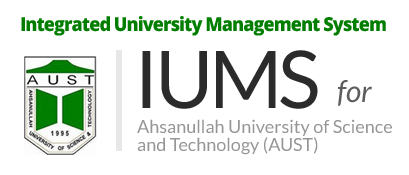
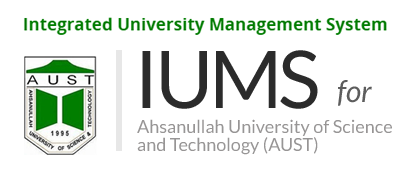
Code formatting and changed brand image.

Changed region(s): [[0.0293, 0.0857, 0.9682, 0.2]]

diff --git a/ums-core/src/main/java/org/ums/persistent/dao/PersistentAdmissionStudentDao.java b/ums-core/src/main/java/org/ums/persistent/dao/PersistentAdmissionStudentDao.java
@@ -45,47 +45,35 @@ public class PersistentAdmissionStudentDao extends AdmissionStudentDaoDecorator 
           + "                 FATHER_NAME, MOTHER_NAME, SSC_GPA, HSC_GPA, QUOTA , unit,      "
           + "                 LAST_MODIFIED from admission_students where SEMESTER_ID=? and program_type=? order by to_number(RECEIPT_ID)";
 
-  String INSERT_ONE_TALETALK_DATA =
-      "INSERT INTO admission_students (semester_id, "
-          + "                                receipt_id, "
-          + "                                pin, "
-          + "                                hsc_board,hsc_roll, "
-          + "                                hsc_regno, "
-          + "                                hsc_year, "
-          + "                                hsc_group, "
-          + "                                ssc_board, "
-          + "                                ssc_roll, "
-          + "                                ssc_year, "
-          + "                                ssc_group, "
-          + "                                gender, "
-          + "                                date_of_birth, "
-          + "                                student_name, "
-          + "                                father_name, "
-          + "                                mother_name, "
-          + "                                ssc_gpa, "
-          + "                                hsc_gpa, "
-          + "                                quota, "
-          + "                                unit, program_type,last_Modified) "
-          + "                                values(?,?,?,?,?,?,?,?,?,?,?,?,?,to_date(?,'dd/MM/YY'),?,?,?,?,?,?,?,?,"
-          + getLastModifiedSql() + ")";
+  String INSERT_ONE_TALETALK_DATA = "INSERT INTO admission_students (semester_id, "
+      + "                                receipt_id, " + "                                pin, "
+      + "                                hsc_board,hsc_roll, " + "                                hsc_regno, "
+      + "                                hsc_year, " + "                                hsc_group, "
+      + "                                ssc_board, " + "                                ssc_roll, "
+      + "                                ssc_year, " + "                                ssc_group, "
+      + "                                gender, " + "                                date_of_birth, "
+      + "                                student_name, " + "                                father_name, "
+      + "                                mother_name, " + "                                ssc_gpa, "
+      + "                                hsc_gpa, " + "                                quota, "
+      + "                                unit, program_type,last_Modified) "
+      + "                                values(?,?,?,?,?,?,?,?,?,?,?,?,?,to_date(?,'dd/MM/YY'),?,?,?,?,?,?,?,?,"
+      + getLastModifiedSql() + ")";
 
   String INSERT_ONE = "INSERT INTO DB_IUMS.ADMISSION_STUDENTS  "
       + "(SEMESTER_ID, RECEIPT_ID, PIN, HSC_BOARD, HSC_ROLL,  "
-      + " HSC_REGNO, HSC_YEAR, HSC_GROUP, SSC_BOARD, SSC_ROLL,  "
-      + "  SSC_YEAR, SSC_GROUP, GENDER, DATE_OF_BIRTH,  "
+      + " HSC_REGNO, HSC_YEAR, HSC_GROUP, SSC_BOARD, SSC_ROLL,  " + "  SSC_YEAR, SSC_GROUP, GENDER, DATE_OF_BIRTH,  "
       + " STUDENT_NAME, FATHER_NAME, MOTHER_NAME, SSC_GPA, HSC_GPA,  "
       + " QUOTA,UNIT, ADMISSION_ROLL, MERIT_SL_NO, STUDENT_ID, ALLOCATED_PROGRAM_ID,  "
-      + " MIGRATION_STATUS, LAST_MODIFIED)  " + "VALUES  " + "  (?, ?, ?, ?, ?,?,  "
-      + "      ?, ?, ?, ?, ?,  " + "      ?, ?, ?, ?, ?,  " + "         ?, ?, ?, ?, ?,  "
-      + "   ?, ?, ?, ?, ?,  " + "   ?, " + getLastModifiedSql() + ")";
+      + " MIGRATION_STATUS, LAST_MODIFIED)  " + "VALUES  " + "  (?, ?, ?, ?, ?,?,  " + "      ?, ?, ?, ?, ?,  "
+      + "      ?, ?, ?, ?, ?,  " + "         ?, ?, ?, ?, ?,  " + "   ?, ?, ?, ?, ?,  " + "   ?, "
+      + getLastModifiedSql() + ")";
 
-  String GET_ONE =
-      "SELECT SEMESTER_ID, RECEIPT_ID, PIN, HSC_BOARD, HSC_ROLL,  "
-          + "    HSC_REGNO, HSC_YEAR, HSC_GROUP, SSC_BOARD, SSC_ROLL,  "
-          + "    SSC_YEAR, SSC_GROUP, GENDER, to_char(DATE_OF_BIRTH,'dd/mm/yy') date_of_birth, STUDENT_NAME,  "
-          + "    FATHER_NAME, MOTHER_NAME, SSC_GPA, HSC_GPA, QUOTA,  "
-          + "    ADMISSION_ROLL, MERIT_SL_NO, STUDENT_ID, ALLOCATED_PROGRAM_ID, MIGRATION_STATUS,  "
-          + "    LAST_MODIFIED, UNIT from admission_students ";
+  String GET_ONE = "SELECT SEMESTER_ID, RECEIPT_ID, PIN, HSC_BOARD, HSC_ROLL,  "
+      + "    HSC_REGNO, HSC_YEAR, HSC_GROUP, SSC_BOARD, SSC_ROLL,  "
+      + "    SSC_YEAR, SSC_GROUP, GENDER, to_char(DATE_OF_BIRTH,'dd/mm/yy') date_of_birth, STUDENT_NAME,  "
+      + "    FATHER_NAME, MOTHER_NAME, SSC_GPA, HSC_GPA, QUOTA,  "
+      + "    ADMISSION_ROLL, MERIT_SL_NO, STUDENT_ID, ALLOCATED_PROGRAM_ID, MIGRATION_STATUS,  "
+      + "    LAST_MODIFIED, UNIT from admission_students ";
 
   String GET_BY_STUDENTID = "SELECT RECEIPT_ID FROM ADMISSION_STUDENTS ";
 
@@ -344,10 +332,12 @@ public class PersistentAdmissionStudentDao extends AdmissionStudentDaoDecorator 
         SELECT_ONE + " where SEMESTER_ID=? and QUOTA=? and MERIT_SL_NO>=? and MERIT_SL_NO<=? order by merit_sl_no";
     return mJdbcTemplate.query(query, new Object[] {pSemesterId, quota, fromMeritSerialNumber, toMeritSerialNumber},
         new AdmissionStudentRowMapper());
-        /*SELECT_ONE
-            + " where SEMESTER_ID=? and QUOTA=? and MERIT_SL_NO>=? and MERIT_SL_NO<=? order by merit_sl_no";
-    return mJdbcTemplate.query(query, new Object[] {pSemesterId, quota, fromMeritSerialNumber,
-        toMeritSerialNumber}, new AdmissionStudentRowMapper());*/
+    /*
+     * SELECT_ONE +
+     * " where SEMESTER_ID=? and QUOTA=? and MERIT_SL_NO>=? and MERIT_SL_NO<=? order by merit_sl_no"
+     * ; return mJdbcTemplate.query(query, new Object[] {pSemesterId, quota, fromMeritSerialNumber,
+     * toMeritSerialNumber}, new AdmissionStudentRowMapper());
+     */
   }
 
   // kawsurilu
